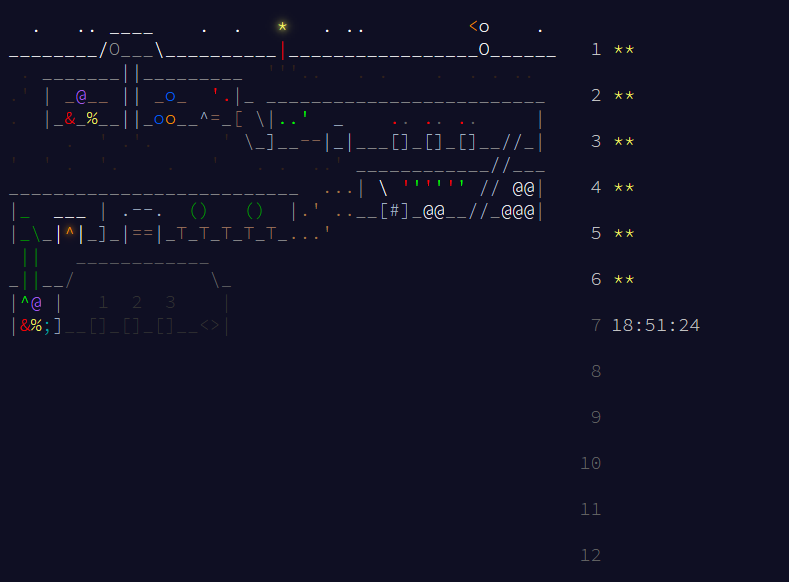
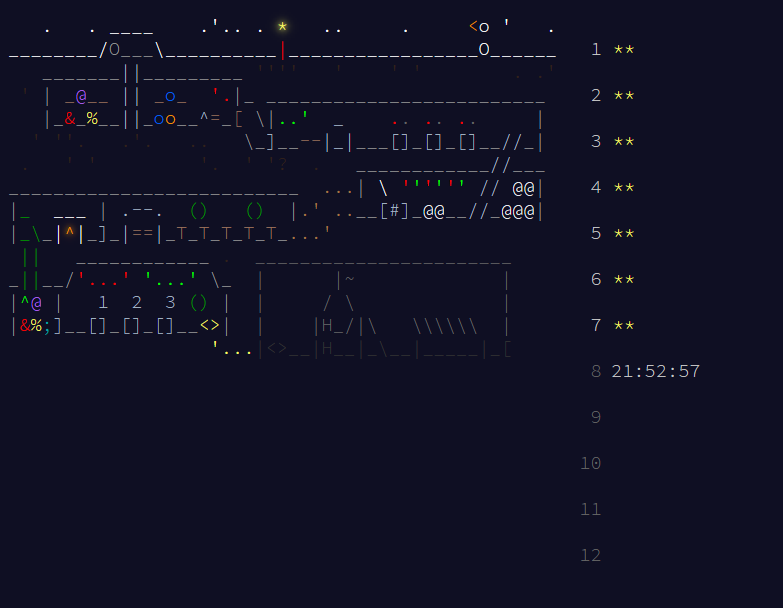
day 7

diff --git a/2025/day7/src/main.rs b/2025/day7/src/main.rs
@@ -1,0 +1,127 @@
+use utils::structs::stopwatch::{ReportDuration, Stopwatch};
+
+fn main() {
+    let mut watch = Stopwatch::new();
+    watch.start();
+    let input = std::fs::read_to_string("2025/day7/input").expect("Failed to read input file");
+    println!(
+        "1. {} ({})",
+        part1(parse_input(&input)),
+        watch.lap().report()
+    );
+    println!(
+        "2. {} ({})",
+        part2(parse_input(&input)),
+        watch.lap().report()
+    );
+}
+
+fn parse_input(input: &str) -> Vec<Vec<char>> {
+    let lines: Vec<&str> = input
+        .lines()
+        .filter(|line| !line.trim().is_empty())
+        .collect();
+    lines.iter().map(|f| f.chars().collect()).collect()
+}
+
+fn part1(mut tachyon_map: Vec<Vec<char>>) -> u64 {
+    let mut beam_splits: u64 = 0;
+    let height = tachyon_map.len();
+
+    let start = tachyon_map[0]
+        .iter()
+        .position(|&c| c == 'S')
+        .expect("Couldn't find tachyon start") as u64;
+    let mut beam_stack: Vec<(u64, u64)> = Vec::new();
+    beam_stack.push((0, start));
+    while !beam_stack.is_empty() {
+        let pos = beam_stack.pop().unwrap();
+        if pos.0 + 1 >= height as u64 {
+            continue;
+        }
+        let peek = tachyon_map[(pos.0 + 1) as usize][pos.1 as usize];
+        match peek {
+            '^' => {
+                beam_splits += 1;
+                tachyon_map[(pos.0 + 1) as usize][pos.1 as usize] = '|';
+                beam_stack.push((pos.0 + 1, pos.1 + 1));
+                beam_stack.push((pos.0 + 1, pos.1 - 1));
+            }
+            '.' => {
+                beam_stack.push((pos.0 + 1, pos.1));
+            }
+            _ => {
+                continue;
+            }
+        }
+    }
+
+    beam_splits
+}
+
+fn part2(tachyon_map: Vec<Vec<char>>) -> u64 {
+    let height = tachyon_map.len();
+    let mut total_paths: Vec<u64> = vec![0; tachyon_map[0].len()];
+    for row in 0..height {
+        for (index, space) in tachyon_map[row].iter().enumerate() {
+            match space {
+                'S' => total_paths[index] = 1,
+                '^' => {
+                    total_paths[index - 1] += total_paths[index];
+                    total_paths[index + 1] += total_paths[index];
+
+                    total_paths[index] = 0;
+                }
+                _ => (),
+            }
+        }
+    }
+
+    total_paths.iter().sum()
+}
+
+#[test]
+fn test1() {
+    let input = r"
+.......S.......
+...............
+.......^.......
+...............
+......^.^......
+...............
+.....^.^.^.....
+...............
+....^.^...^....
+...............
+...^.^...^.^...
+...............
+..^...^.....^..
+...............
+.^.^.^.^.^...^.
+...............
+";
+    assert_eq!(part1(parse_input(input)), 21);
+}
+
+#[test]
+fn test2() {
+    let input = r"
+.......S.......
+...............
+.......^.......
+...............
+......^.^......
+...............
+.....^.^.^.....
+...............
+....^.^...^....
+...............
+...^.^...^.^...
+...............
+..^...^.....^..
+...............
+.^.^.^.^.^...^.
+...............
+";
+    assert_eq!(part2(parse_input(input)), 40);
+}

diff --git a/README.md b/README.md
@@ -13,7 +13,7 @@ enjoy the slop
 | 4   | 1493             | 9194             | 283μs/1.948ms       |
 | 5   | 770              | 357674099117260  | 586μs/245μs         |
 | 6   | 4364617236318    | 9077004354241    | 195μs/195μs         |
-| 7   | -                | -                | -/-                 |
+| 7   | 1570             | 15118009521693   | 194μs/147μs         |
 | 8   | -                | -                | -/-                 |
 | 9   | -                | -                | -/-                 |
 | 10  | -                | -                | -/-                 |

diff --git a/2025/day7/day7.md b/2025/day7/day7.md
@@ -1,0 +1,6 @@
+> cargo run --release --bin day7-2025 > 2025/day7/day7.md
+
+1. 1570 (194μs)
+2. 15118009521693 (147μs)
+
+2107 -> 2308 PST
